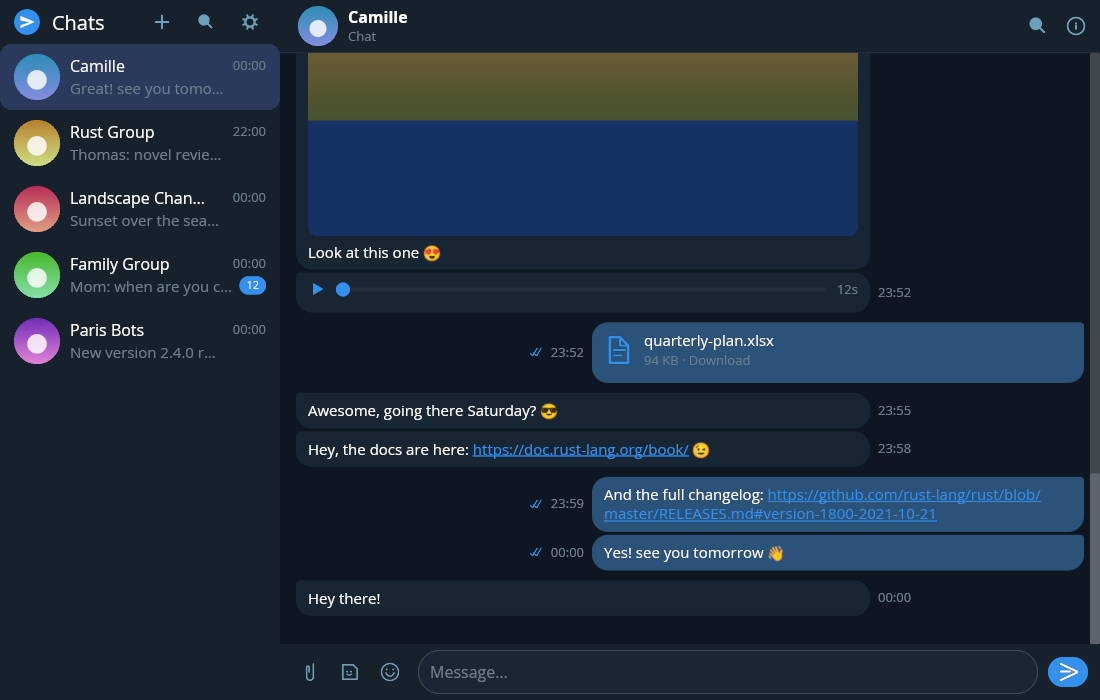
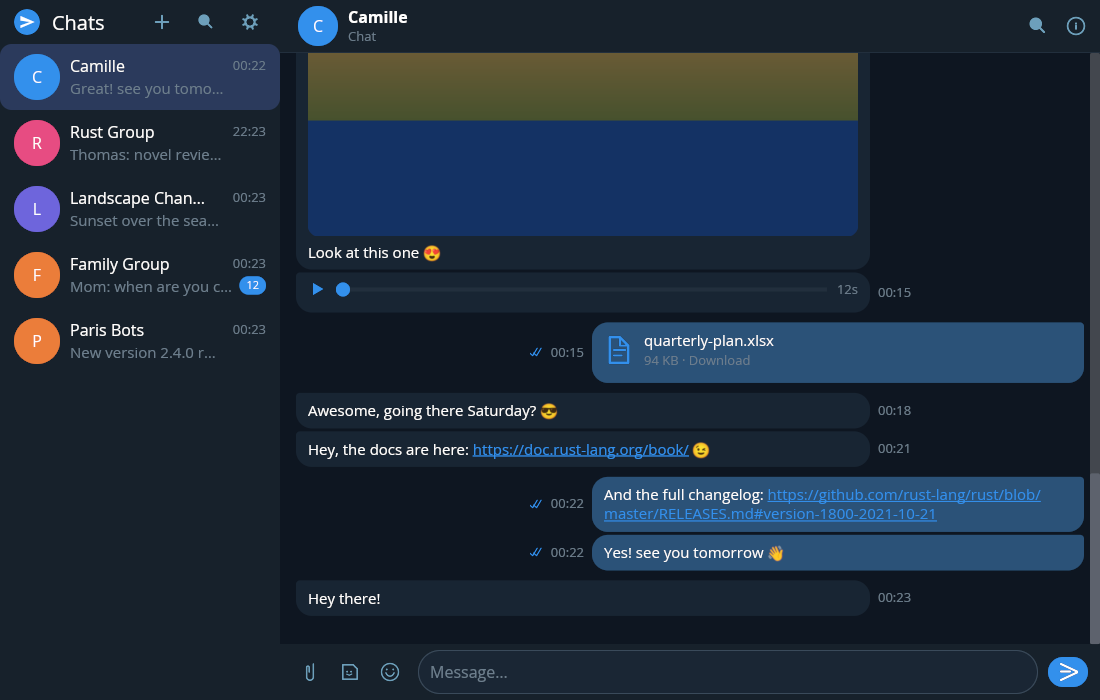
docs(readme): richer screenshot gallery (topics, settings, contact profile)

diff --git a/README.md b/README.md
@@ -16,7 +16,11 @@ Dark, feather-light, GPU-rendered — the whole client fits in a single window.
 
 ![Main chat — dark theme, GPU-rendered, push-realtime](screenshots/demo-main-chat.png)
 
-![Media channel — photos render full-screen in-app](screenshots/demo-media-channel.png)
+![Group forum — conversations organized in topics](screenshots/demo-topics-forum.png)
+
+![Settings — profile, storage and sessions](screenshots/demo-settings.png)
+
+![Contact profile — opened from the conversation header](screenshots/demo-user-profile.png)
 
 *Screenshots from the built-in `--demo` offline mode.*
 
